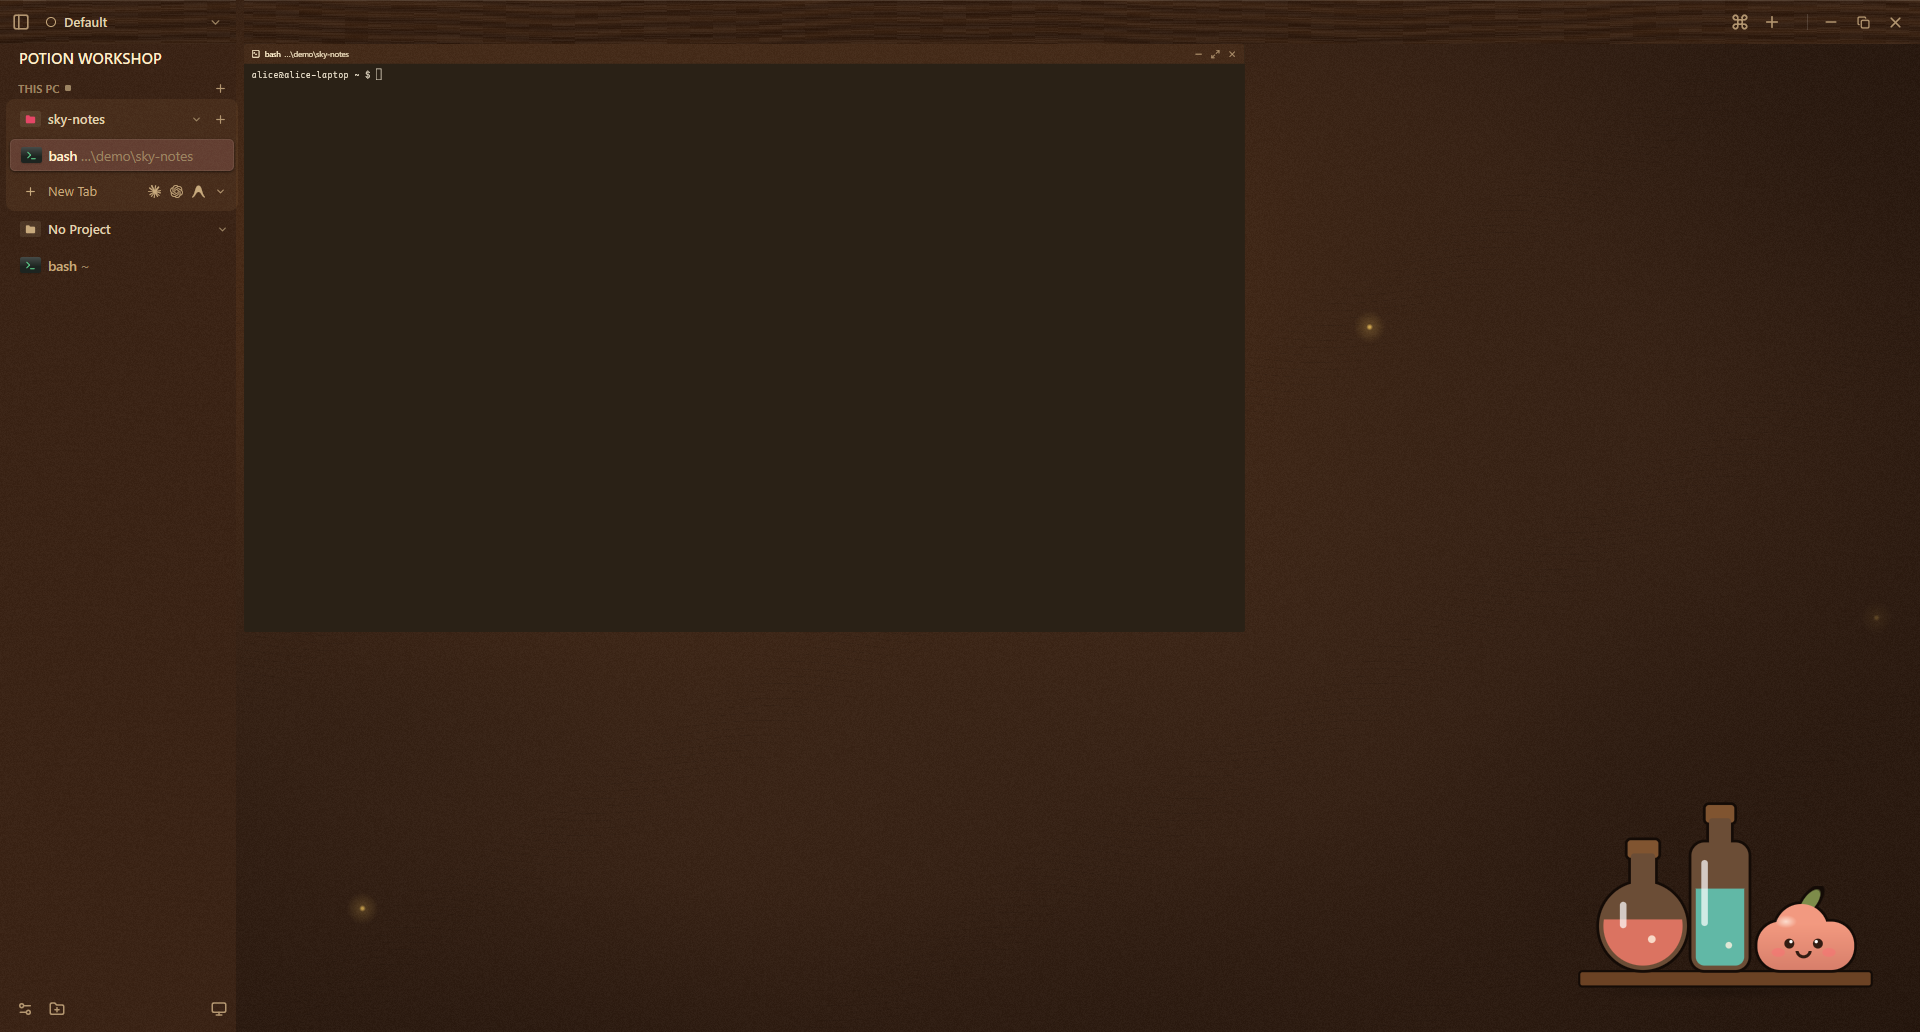
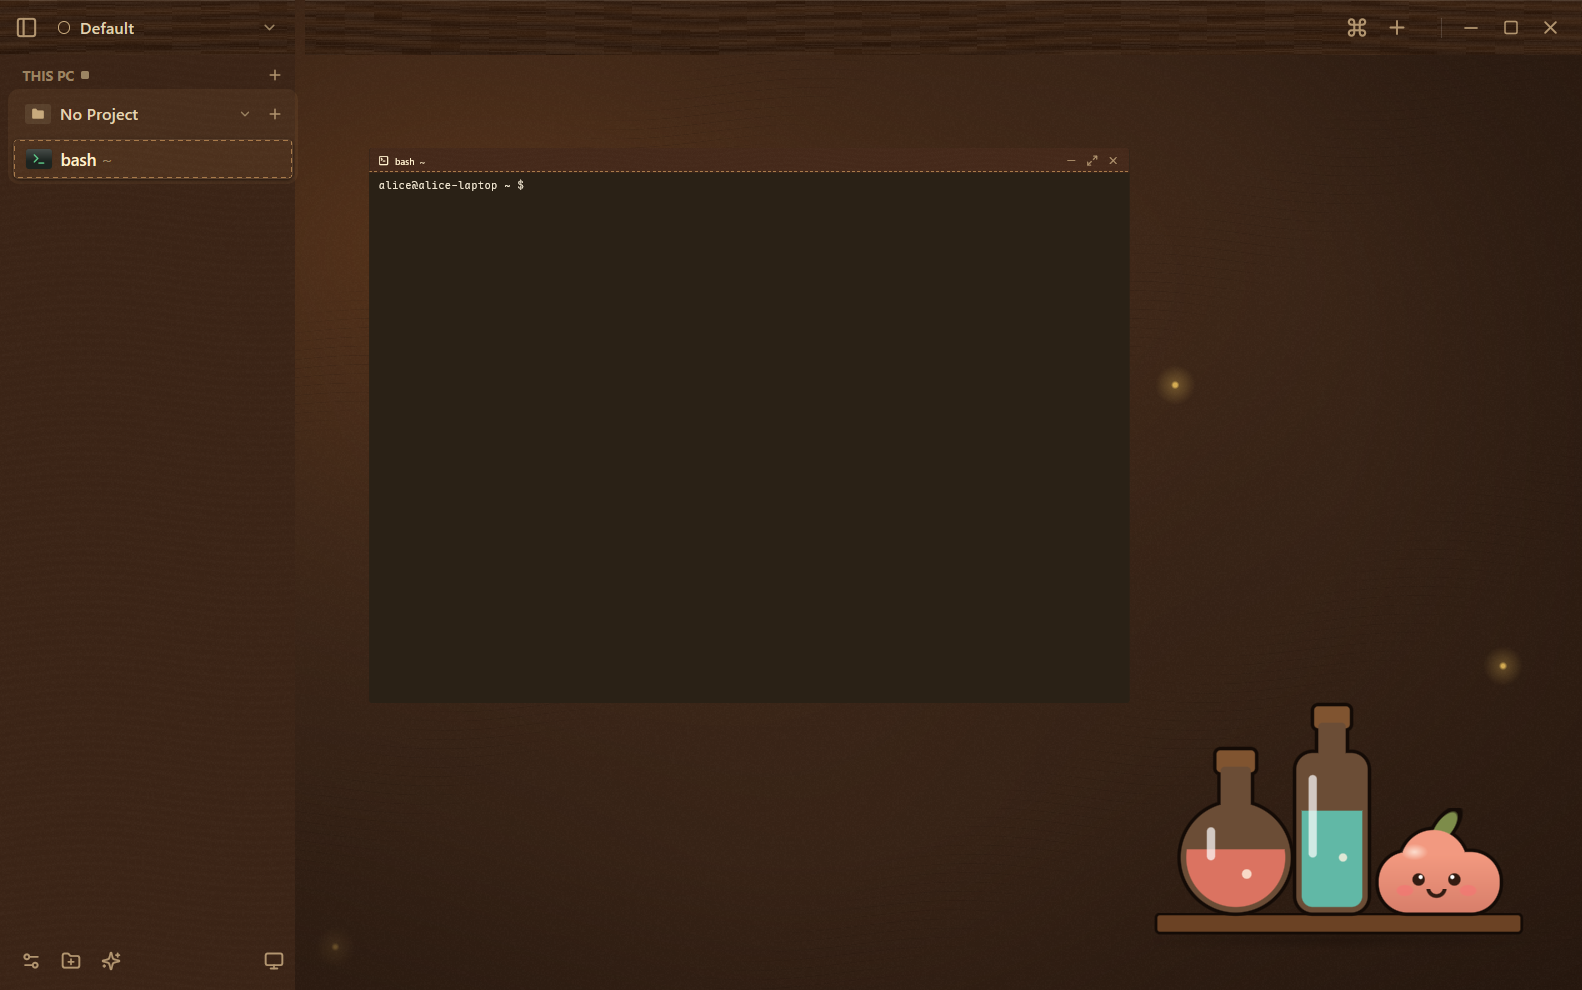
chore: require GoRex 0.62.0, drop brand, and update the screenshots
GoRex 0.62.0 removed the brand key (si-mods/gorex#1120) and drops it with a warning. Install from the registry so updates work. The screenshots show the shader API 2 look.

diff --git a/README.md b/README.md
@@ -2,11 +2,9 @@
 
 A theme pack for [GoRex](https://github.com/si-mods/gorex): a warm fairy-tale apothecary on paper: parchment with fibers and grain, slow gold motes, a wooden shelf, potion bottles and a small slime. Light and dark.
 
-![Potion Workshop](screenshots/canvas-light.png)
+![Potion Workshop, light](screenshots/canvas-light.png)
 
-![Potion Workshop](screenshots/canvas-dark.png)
-
-![Potion Workshop](screenshots/tiled-light.png)
+![Potion Workshop, dark](screenshots/canvas-dark.png)
 
 The look follows the "Potion Workshop" preset of [codex-themes](https://github.com/freestylefly/codex-themes). The pack holds no image, code or text of that project: every picture in it is new art, drawn by the shaders in `assets/`. See [NOTICE](NOTICE).
 
@@ -16,16 +14,17 @@ The look follows the "Potion Workshop" preset of [codex-themes](https://github.c
 - Shaders: the window background in three layers (parchment with lamp glow and stains; fibers and grain at 75% opacity; motes, bottles and slime), the title bar as a wooden shelf, the sidebar column as grain over its paper color, and the chosen row and pane header as grain and a dashed stitch over their paper colors.
 - Roles: paper tones for the faces in each appearance, `pane.border` in brown.
 - Metrics: corner scale 0.5, 1 DIP borders, rounded then Segoe UI, hard shadows.
-- Glass off. Terminal: Lumina Parchment Light and Lumina Parchment Dark. Wordmark: POTION WORKSHOP.
+- Glass off. Terminal: Lumina Parchment Light and Lumina Parchment Dark.
 
 ## Install
 
-This pack uses shader API version 2 (`"shaders": {"api": 2}`, docs/DSK-012-theme-shaders.md), so it needs a GoRex build with shader API 2: the next release after 0.61.0. An older build loads the colors and draws the faces and the background flat, with a warning.
+This pack uses shader API version 2 (`"shaders": {"api": 2}`, docs/DSK-012-theme-shaders.md), so it needs GoRex 0.62.0 or later. An older build loads the colors and draws the faces and the background flat, with a warning.
 
 ```sh
-git clone https://github.com/si-mods/gorex-theme-potion-workshop
 gorex pack install gorex-theme-potion-workshop
 ```
+
+This installs the pack from the [GoRex registry](https://github.com/si-mods/gorex-registry), so GoRex can update it later (`gorex pack update`).
 
 Then select **Potion Workshop** on the Extensions page of the settings, or set `"appearance.theme": "gorex-theme-potion-workshop"` in `settings.json`.
 
